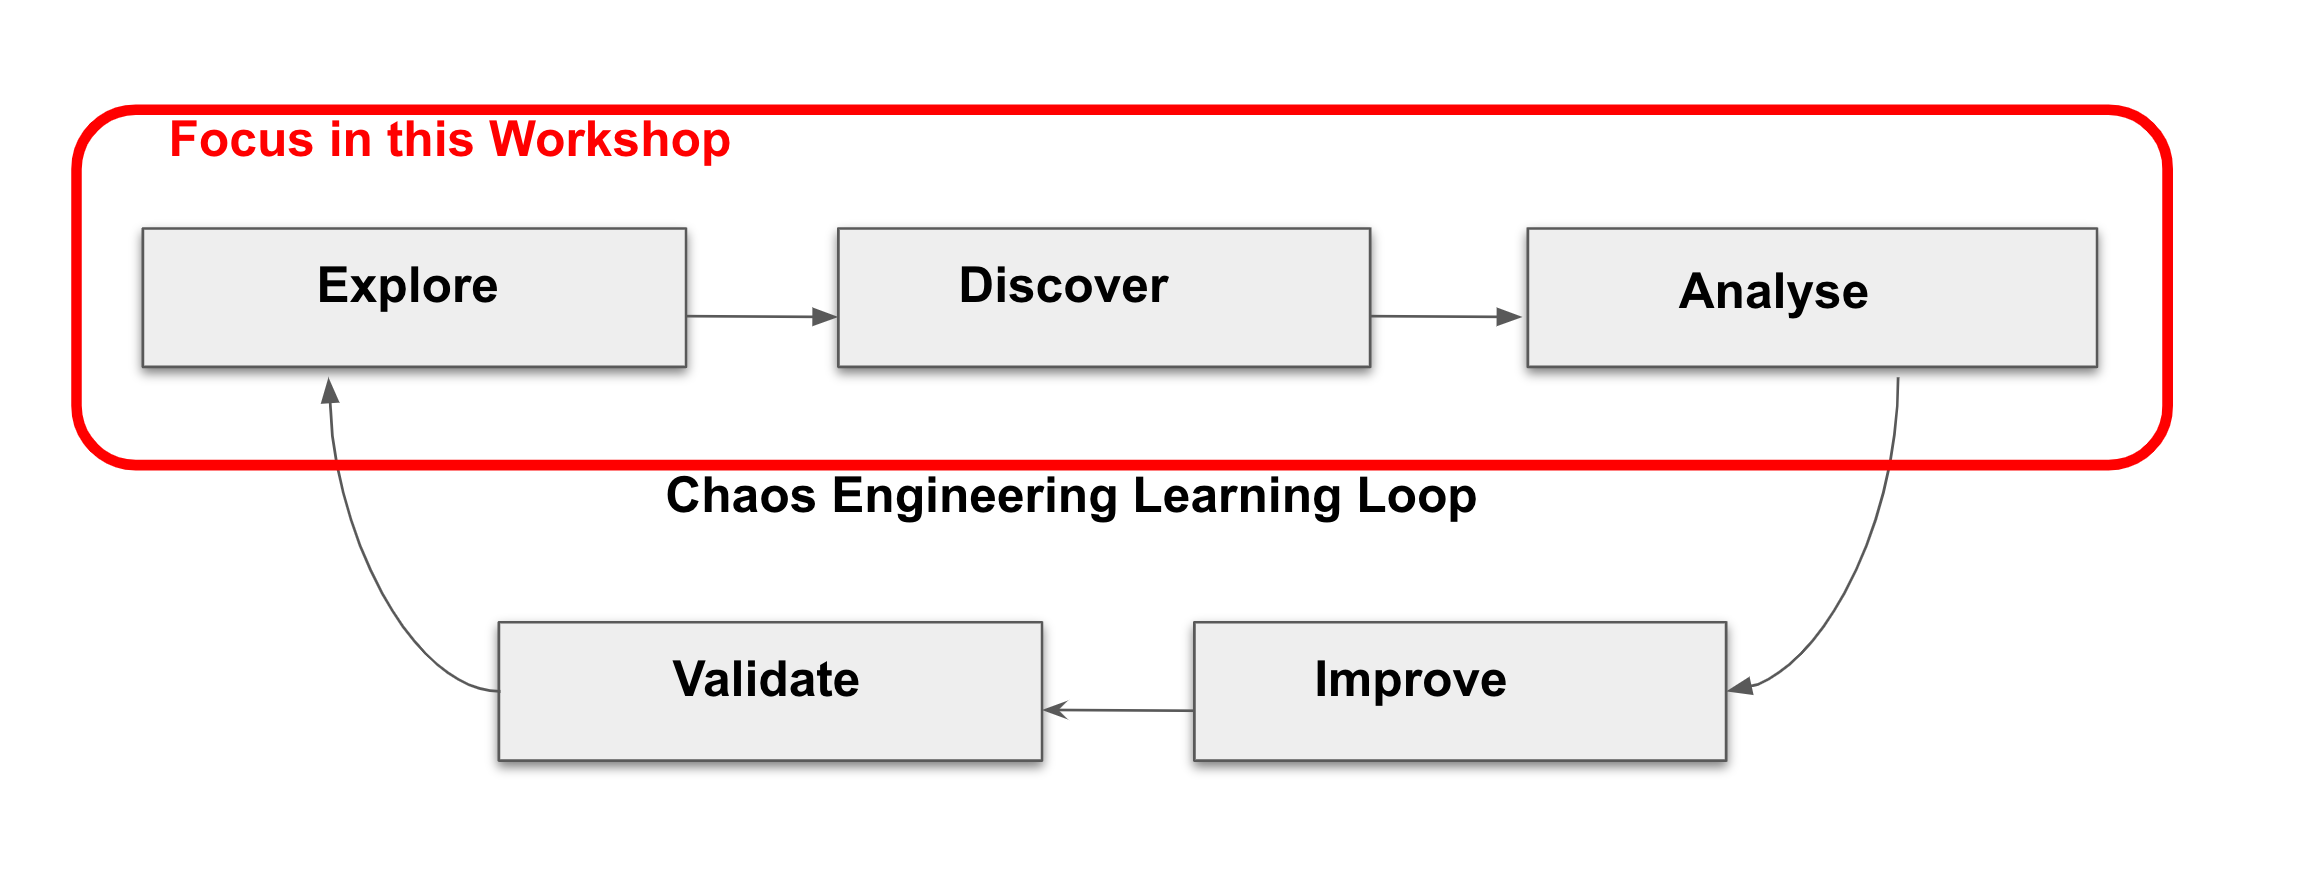
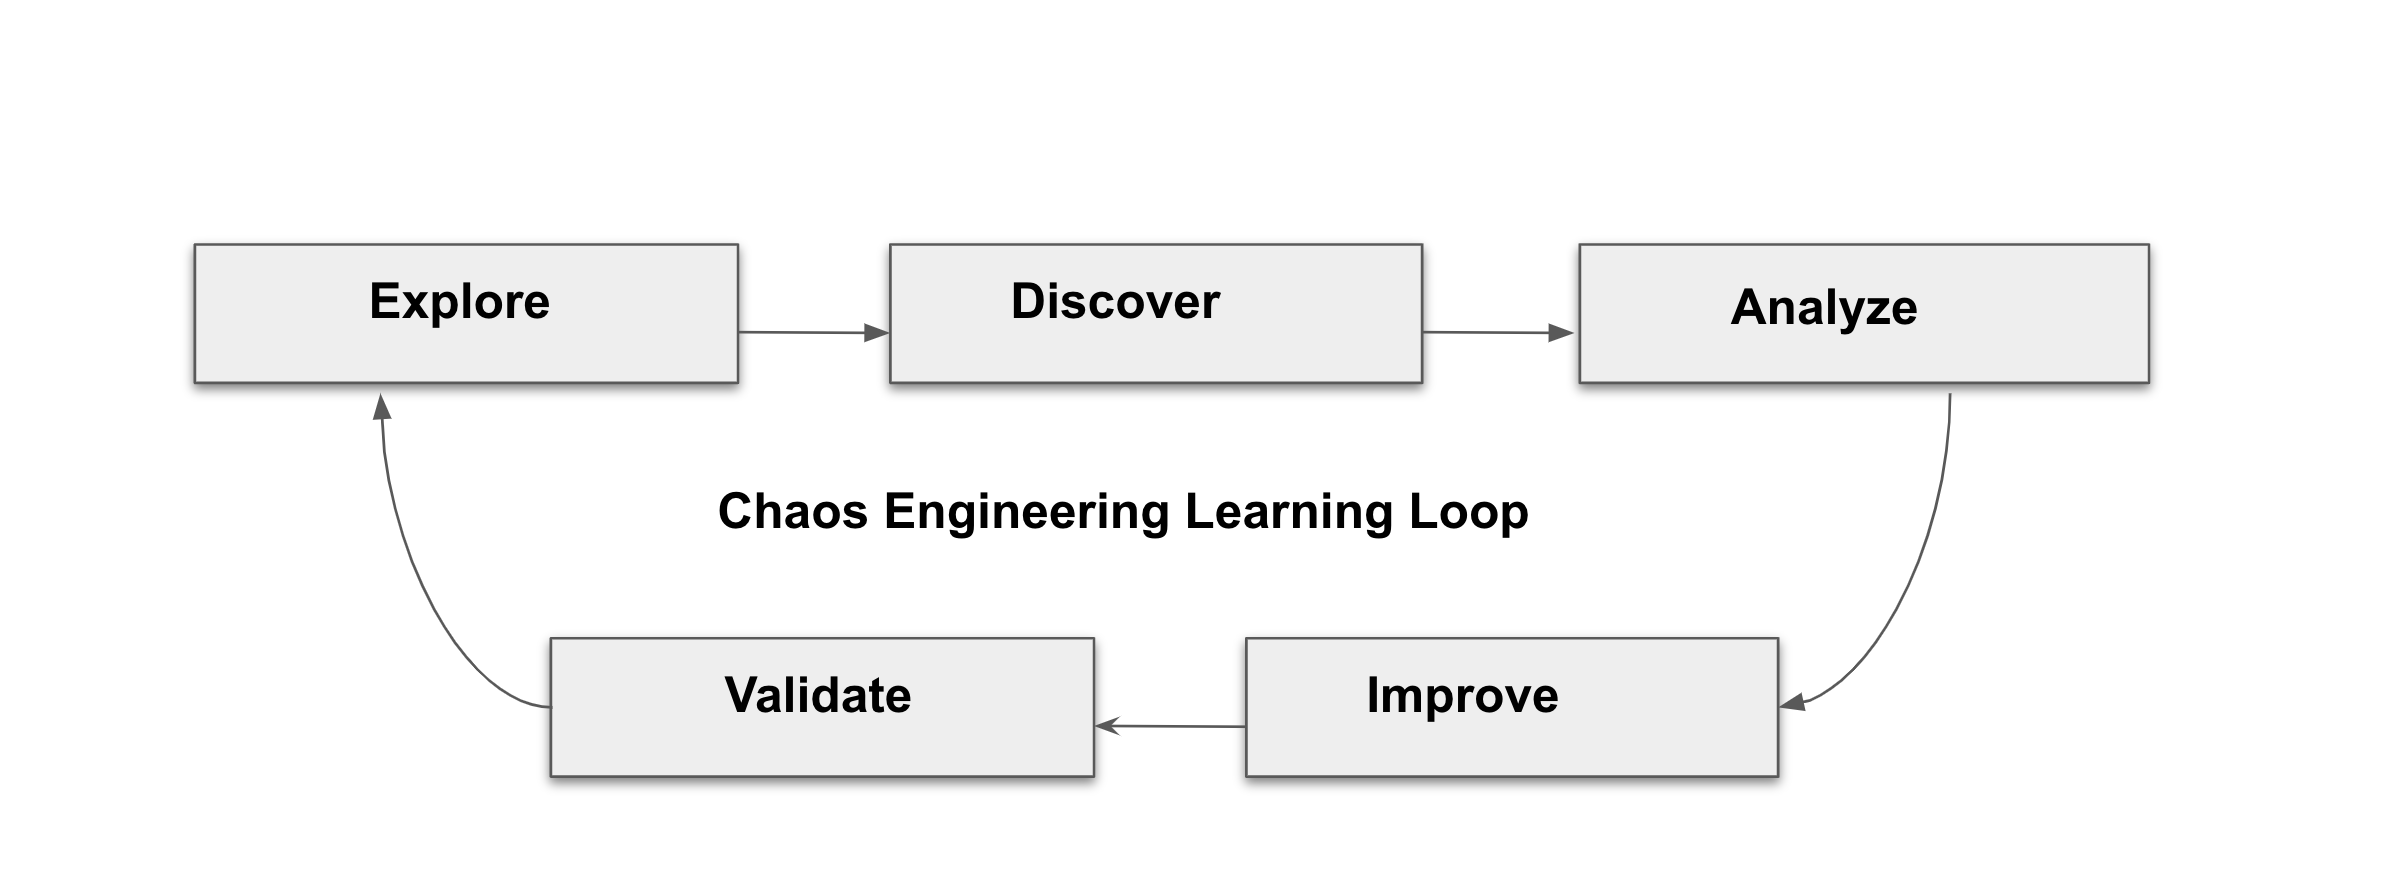
[CI] Publish Documentation for 431ce886c4dc3a46f2e9fc51078cf8203c110464 - 431ce886c4dc3a46f2e9fc51078cf8203c110464 🚀

diff --git a/chaos-engineering/5.0/chaos-design.html b/chaos-engineering/5.0/chaos-design.html
@@ -164,7 +164,7 @@
 </div>
 <div class="imageblock">
 <div class="content">
-<img src="_images/simple-2-service.png" alt="simple-2-service - A simple two-service system" width="600">
+<img src="_images/simple-2-service.png" alt="simple-2-service - A simple two-service system" width="700">
 </div>
 </div>
 <div class="ulist">
@@ -198,7 +198,7 @@
 <h2 id="_plan_a_chaos_experiment"><a class="anchor" href="#_plan_a_chaos_experiment"></a>Plan a Chaos Experiment</h2>
 <div class="sectionbody">
 <div class="paragraph">
-<p>Chaos Engineering begins by asking the question :</p>
+<p><strong>Chaos Engineering</strong> begins by asking the question :</p>
 </div>
 <div class="paragraph">
 <p><strong>"Do we know what the system might do in this case ?"</strong></p>
@@ -244,17 +244,17 @@
 </div>
 <div class="imageblock">
 <div class="content">
-<img src="_images/chaos-Learning-Loop.png" alt="chaos-engineering-learning-loop" width="800">
+<img src="_images/Chaos-Learning-Loop.png" alt="chaos-engineering-learning-loop" width="800">
 </div>
 </div>
 <div class="paragraph">
-<p>Following the <strong>Chaos Engineering Learning Loop</strong> the initial step is to <strong>Explore</strong> the target system, in our case the application we will use, to attempt to surface or <strong>Discover</strong> any weaknesses. The <strong>Experiments</strong> we will use are already written for you, using (Lab 5) and (Lab 6).</p>
+<p>Following the <strong>Chaos Engineering Learning Loop</strong> the initial step is to <strong>Explore</strong> the target system, i.e our application, to attempt to surface or <strong>discover</strong> any weaknesses. The <strong>Experiments</strong> we will use are already written for you, using (<a href="chaos-latency.html" class="page">5. Chaos Experiment 1: Network latency</a>) and (<a href="chaos-error.html" class="page">6. Chaos Experiment 2: Unavailable Service</a>).</p>
 </div>
 <div class="paragraph">
-<p><strong>Kiali</strong> and <strong>Openshift Developer Console</strong> (Lab 3) will allow you to <strong>explore</strong> and to <strong>discover</strong> the application. <strong>Grafana</strong> (Lab 4) is part of the Discovery of the application too.</p>
+<p><strong>Kiali</strong> and <strong>Openshift Developer Console</strong> (<a href="chaos-explore.html" class="page">3. Explore the Application</a>) will allow you to <strong>explore</strong> and to <strong>discover</strong> the application. <strong>Grafana</strong> (<a href="chaos-metrics.html" class="page">4. Define and monitor Chaos metrics</a> is part of the Discovery of the application too.</p>
 </div>
 <div class="paragraph">
-<p>When you will be ready to execute your experiment (Lab 5) and (Lab 6) you will see how the target system is reacting. You will enter the <strong>discovery</strong> and <strong>analysis</strong> phases of the <strong>Chaos Engineering Learning Loop</strong>.</p>
+<p>When you will be ready to execute your experiment (<a href="chaos-latency.html" class="page">5. Chaos Experiment 1: Network latency</a>) and (<a href="chaos-error.html" class="page">6. Chaos Experiment 2: Unavailable Service</a>) you will see how the target system is reacting. You will enter the <strong>discovery</strong> and <strong>analysis</strong> phases of the <strong>Chaos Engineering Learning Loop</strong> and after the <strong>analysis</strong> you will <strong>Improve</strong> and <strong>Validate</strong> the correction made.</p>
 </div>
 </div>
 </div>
